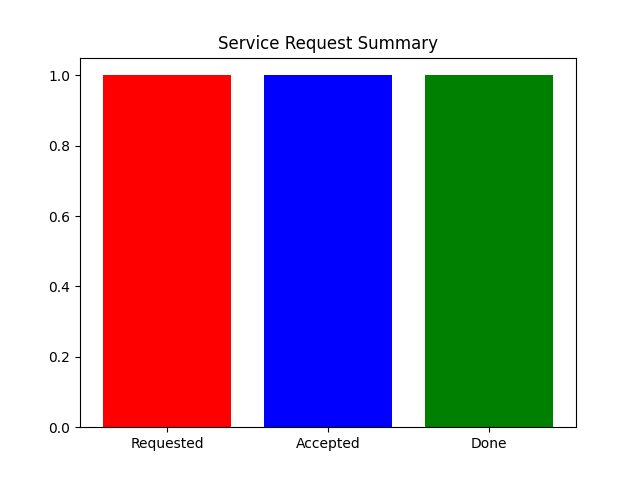
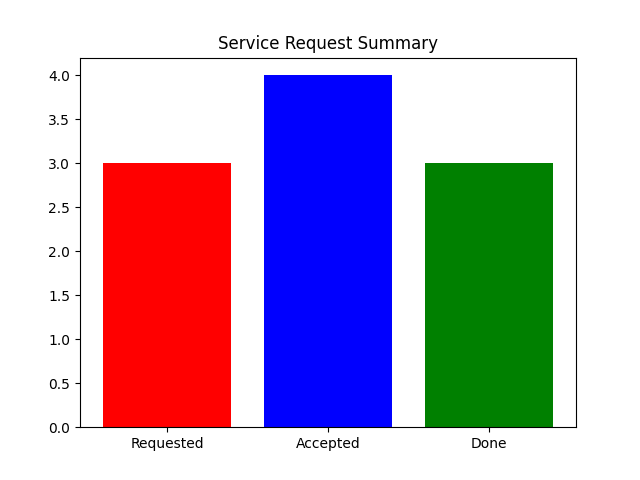
prof'l  summary

diff --git a/templates/professional_summary.html b/templates/professional_summary.html
@@ -6,4 +6,25 @@
 <!-- -->
 {% block content %}
 <h1>Welcome to summary page</h1>
+{% if total_stars > 0 %}
+<ul>
+  <li>1 Stars: {{(stars.1 / total_stars * 100) | round(2)}}%</li>
+  <li>2 Stars: {{(stars.2 / total_stars * 100) | round(2)}}%</li>
+  <li>3 Stars: {{(stars.3 / total_stars * 100) | round(2)}}%</li>
+  <li>4 Stars: {{(stars.4 / total_stars * 100) | round(2)}}%</li>
+  <li>5 Stars: {{(stars.5 / total_stars * 100) | round(2)}}%</li>
+</ul>
+<h2>Overall Customer ratings</h2>
+<img src="/static/overall_customer_ratings.png" alt="Overall Customer ratings" />
+{% else %}
+<p>No ratings given yet.</p>
+{% endif %}
+
+<h2>Service Request Summary</h2>
+<ul>
+  <li>Requested: {{requests_requested}}</li>
+  <li>Accepted: {{requests_accepted}}</li>
+  <li>Done: {{requests_done}}</li>
+</ul>
+<img src="/static/service_request_summary.png" alt="Service Request Summary" />
 {% endblock content %}

diff --git a/templates/admin_summary.html b/templates/admin_summary.html
@@ -6,6 +6,7 @@
 <!-- -->
 {% block content %}
 <h1>Welcome to summary page</h1>
+{% if total_stars > 0 %}
 <ul>
   <li>1 Stars: {{(stars.1 / total_stars * 100) | round(2)}}%</li>
   <li>2 Stars: {{(stars.2 / total_stars * 100) | round(2)}}%</li>
@@ -15,6 +16,9 @@
 </ul>
 <h2>Overall Customer ratings</h2>
 <img src="/static/overall_customer_ratings.png" alt="Overall Customer ratings" />
+{% else %}
+<p>No ratings given yet.</p>
+{% endif %}
 
 <h2>Service Request Summary</h2>
 <ul>

diff --git a/routes/professional_bp.py b/routes/professional_bp.py
@@ -4,6 +4,10 @@ from flask_login import current_user
 from datetime import datetime
 
 
+import matplotlib
+from matplotlib import pyplot as plt
+matplotlib.use('Agg')
+
 professional_bp = Blueprint('professional', __name__)
 
 
@@ -85,7 +89,39 @@ def professional_search_results(search_type):
 
 @professional_bp.route('/professional/summary')
 def professional_summary():
-  return render_template('professional_summary.html')
+  stars = {}  # {1: x, ... 5: x}, x is count of requests with that many stars
+  for i in range(1, 6):
+    stars[i] = ServiceRequest.query.filter_by(ratings=i, professional=current_user.professional).count()
+  total_stars = sum(stars.values())
+
+  requests_requested = ServiceRequest.query.filter_by(
+      status='requested', professional=current_user.professional).count()
+  requests_accepted = ServiceRequest.query.filter_by(status='accepted', professional=current_user.professional).count()
+  requests_done = ServiceRequest.query.filter_by(status='done', professional=current_user.professional).count()
+
+  if total_stars > 0:
+    """ generate ratings pie chart """
+    labels = [f'{i} Star' for i in range(1, 6)]
+    data = [stars[i] for i in range(1, 6)]
+    plt.pie(data, labels=labels, autopct='%1.2f%%')
+    plt.title('Overall Customer Ratings')
+    plt.savefig('static/overall_customer_ratings.png')
+    plt.close()
+
+  """ generate service requests bar chart """
+  labels = ['Requested', 'Accepted', 'Done']
+  data = [requests_requested, requests_accepted, requests_done]
+  plt.bar(labels, data, color=['red', 'blue', 'green'])
+  plt.title('Service Request Summary')
+  plt.savefig('static/service_request_summary.png')
+  plt.close()
+
+  return render_template(
+      'professional_summary.html',
+      stars=stars, total_stars=total_stars,
+      requests_requested=requests_requested, requests_accepted=requests_accepted,
+      requests_done=requests_done
+  )
 
 
 # ====== accept-request ======

diff --git a/populate_db.py b/populate_db.py
@@ -131,7 +131,7 @@ def populate():
       professional_id=2,
       booking_date=datetime.now(),
       status='done',
-      ratings=4
+      #   ratings=4
   ))
   db.session.add(ServiceRequest(
       customer_id=1,
@@ -147,14 +147,14 @@ def populate():
       booking_date=datetime(2024, 12, 20),
       status='accepted'
   ))
-  db.session.add(ServiceRequest(
-      customer_id=2,
-      service_id=1,
-      professional_id=1,
-      booking_date=datetime(2024, 12, 20),
-      status='done',
-      ratings=3
-  ))
+#   db.session.add(ServiceRequest(
+#       customer_id=2,
+#       service_id=1,
+#       professional_id=1,
+#       booking_date=datetime(2024, 12, 20),
+#       status='done',
+#       ratings=3
+#   ))
   db.session.add(ServiceRequest(
       customer_id=2,
       service_id=2,
@@ -175,7 +175,7 @@ def populate():
       professional_id=3,
       booking_date=datetime.now(),
       status='done',
-      ratings=5
+      #   ratings=5
   ))
   db.session.add(ServiceRequest(
       customer_id=3,
@@ -183,7 +183,7 @@ def populate():
       professional_id=3,
       booking_date=datetime.now(),
       status='done',
-      ratings=1
+      #   ratings=1
   ))
   db.session.add(ServiceRequest(
       customer_id=3,

diff --git a/routes/admin_bp.py b/routes/admin_bp.py
@@ -85,13 +85,14 @@ def admin_summary():
   requests_accepted = ServiceRequest.query.filter_by(status='accepted').count()
   requests_done = ServiceRequest.query.filter_by(status='done').count()
 
-  """ generate ratings pie chart """
-  labels = [f'{i} Star' for i in range(1, 6)]
-  data = [stars[i] for i in range(1, 6)]
-  plt.pie(data, labels=labels, autopct='%1.2f%%')
-  plt.title('Overall Customer Ratings')
-  plt.savefig('static/overall_customer_ratings.png')
-  plt.close()
+  if total_stars > 0:
+    """ generate ratings pie chart """
+    labels = [f'{i} Star' for i in range(1, 6)]
+    data = [stars[i] for i in range(1, 6)]
+    plt.pie(data, labels=labels, autopct='%1.2f%%')
+    plt.title('Overall Customer Ratings')
+    plt.savefig('static/overall_customer_ratings.png')
+    plt.close()
 
   """ generate service requests bar chart """
   labels = ['Requested', 'Accepted', 'Done']
